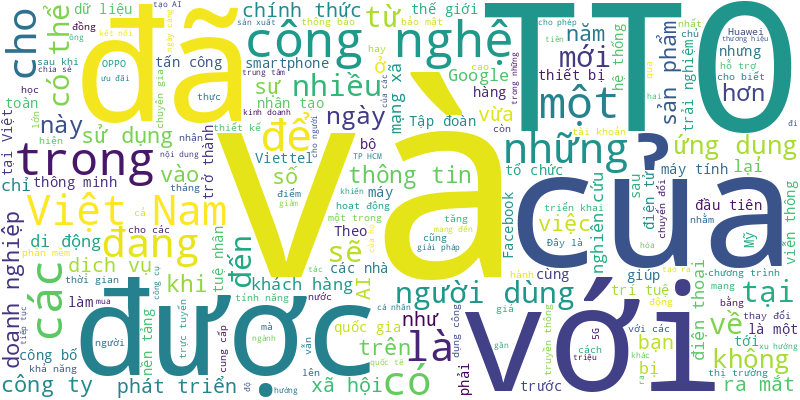
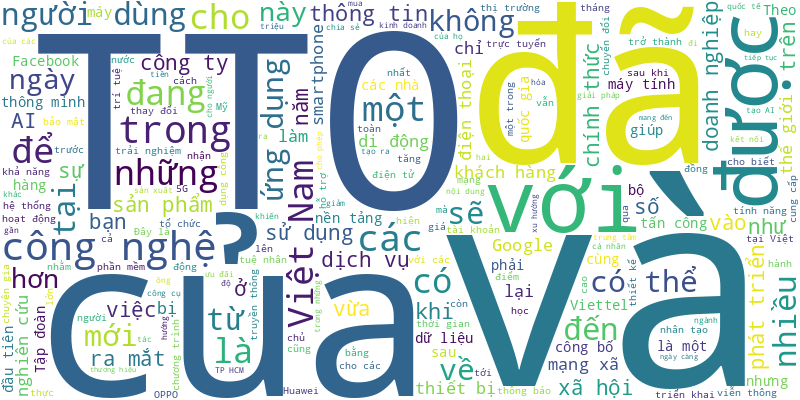
🍀 = 60%

diff --git a/README.md b/README.md
@@ -1,6 +1,16 @@
 # Tuoi Tre RSS 
 
 ## Giáo dục 
+- Ông Bạch Văn Mạnh - giám đốc Sở Nội vụ Đắk Lắk - cho biết tiếp tục đôn đốc các đơn vị, địa phương sớm thực hiện các thủ tục để chi tiền thưởng theo nghị định số 73 ngày 30-6 của Chính phủ.
+- Trước sự chuyển đổi số ngày càng mạnh mẽ, nhu cầu về phương pháp học tập được cá nhân hóa đã trở thành một xu hướng tất yếu.
+- Theo GS.TS Chử Đức Trình, lĩnh vực vi mạch bán dẫn đào tạo không hề dễ, nhân lực theo học cũng đòi hỏi rất nhiều yếu tố.
+- Một cô giáo ở Cà Mau đã sáng tạo, đổi mới dạy học môn ngữ văn bằng cách hát những bài hát cải lương trong các tiết dạy Truyện Kiều, Đất Nước, Lục Vân Tiên… tạo không khí phấn khởi, dễ tiếp thu cho học sinh.
+- Sinh viên Trường đại học Công Thương TP.HCM lo lắng khi trường cho gia hạn thời gian đóng học phí nhưng buộc phải đóng trước một ít.
+- Cuối năm 2024, Sở Giáo dục và Đào tạo TP.HCM đã ban hành kế hoạch tổ chức kiểm điểm, phê bình các tập thể, cá nhân trong việc mua sắm tài sản. Trong đó có hiệu trưởng Trường THPT chuyên Lê Hồng Phong, Gia Định… Họ đã sai phạm ra sao?
+- Bộ trưởng Nguyễn Kim Sơn cho hay công tác xã hội hóa sách giáo khoa đạt kết quả tốt, các môn học và hoạt động giáo dục đều có từ 3 đến 9 bộ sách giáo khoa.
+- UBND TP.HCM vừa có quyết định bãi bỏ quy định về tiêu chí công nhận "Trường tiên tiến, hội nhập quốc tế" (sau đây gọi tắt là trường tiên tiến - PV). Như vậy, những trường đang thực hiện mô hình này sẽ như thế nào?
+- Năm 2025, Trường đại học Công nghệ - Đại học Quốc gia Hà Nội dự kiến tăng hơn 1.000 chỉ tiêu, mở thêm 4 ngành/chương trình đào tạo và xét tuyển 2 tổ hợp mới có môn tin học.
+- Đây là những trường đại học đầu tiên nhận hồ sơ xét tuyển năm nay. Đi kèm xét tuyển là nhiều học bổng giá trị.
 - Giáo viên ở hàng trăm cơ sở giáo dục tại Hà Nội đang thắc thỏm chờ thưởng Tết Ất Tỵ 2025.
 - UBND TP Hà Nội vừa có quyết định tổ chức lại Trường THPT Chu Văn An (quận Tây Hồ) và THPT Sơn Tây (thị xã Sơn Tây) thành trường THPT chuyên.
 - Ngay từ 15-1, thí sinh các trường THPT đã có thể gửi hồ sơ đăng ký xét học bổng tại trường đại học song ngữ - quốc tế được quan tâm hiện nay.
@@ -991,25 +1001,56 @@
 - Sau khi ăn thức ăn mua ở căng tin trường, 23 em học sinh phải nhập viện, nghi bị ngộ độc thực phẩm.
 - Úc đã quyết định giảm thiểu số lượng du học sinh trong năm 2025 xuống đáng kể, khiến không ít sinh viên Việt Nam lo lắng.
 - Sinh viên khó khăn được mượn tiền đóng học phí, không tính lãi, trả gốc sau 2 năm tốt nghiệp.
-- Sau khi nhà trường mời đến làm việc, phụ huynh đánh học sinh lớp 8 ở Quảng Nam cho hay rất hối hận và nhận lỗi.
-- Sau khi Tuổi Trẻ Online đăng bài viết về Nguyễn Tuấn Kiệt (lớp 12A1 Trường THPT Phú Mỹ, tỉnh Bà Rịa - Vũng Tàu), nhiều tấm lòng vàng đã giúp nam sinh này được nhập học.
-- Dự thảo Luật Nhà giáo quy định lương giáo viên được xếp cao nhất trong hệ thống thang bậc lương, được hưởng các phụ cấp và giáo viên mầm non được nghỉ hưu sớm.
-- Ban quản lý ký túc xá Đại học Quốc gia TP.HCM nói phơi đồ ở ban công gây mất mỹ quan, nhưng theo sinh viên, ban công mới có đủ nắng, gió để đồ khô.
-- So với năm 2022, doanh thu năm 2023 của Đại học Bách khoa Hà Nội và Trường đại học FPT tăng khoảng 1.000 tỉ đồng.
-- Ngoài Michael Tirant, trong danh sách tác giả siêu năng suất ghi địa chỉ các trường đại học Việt Nam còn có bốn cái tên người nước ngoài khác. Họ là ai?
-- Để khắc phục hậu quả của bão số 3, Quảng Ninh miễn 100% học phí cho học sinh từ mầm non đến lớp 12 năm học này.
-- Bài học rút ra là phải làm gì đó để ngăn những vụ việc gây bức xúc như ở Nhà xuất bản Giáo Dục Việt Nam.
-- Một phụ huynh ở Quảng Nam đã vào tận lớp đánh học sinh lớp 8 trước sự bất ngờ của giáo viên và cả lớp.
-- Những 'chiến binh' Robot AI của Đại học (ĐH) Duy Tân đã giành giải thưởng cao nhất tại chung kết cuộc thi 'ROBOG 2024'' toàn quốc diễn ra vào ngày 22-9 ở TP.HCM.
 ![Edu](Edu.png)
 ## Thời Sự 
+- Ông Bạch Văn Mạnh - giám đốc Sở Nội vụ Đắk Lắk - cho biết tiếp tục đôn đốc các đơn vị, địa phương sớm thực hiện các thủ tục để chi tiền thưởng theo nghị định số 73 ngày 30-6 của Chính phủ.
+- Thủ tướng Phạm Minh Chính đã nêu vấn đề khi gặp Tổng thống và Thủ tướng Ba Lan ngày 16-1. Ông cũng giải đáp 10 kiến nghị của đại diện cộng đồng người Việt khi gặp họ cùng ngày.
+- Trước tình hình kẹt xe diễn ra phức tạp ở TP.HCM những ngày qua, dư luận đã đặt ra câu hỏi liệu có thể mở rộng tạm vỉa hè để xe máy rẽ phải hay không?
+- Một số tin tức đáng chú ý: Dự kiến mức trợ cấp hưu trí xã hội hằng tháng từ 1-7 là 500.000 đồng; Kết quả thi hành án dân sự năm 2024 cao nhất từ trước đến nay; 28 bệnh viện công lập, 2 bệnh viện tư nhân tại TP.HCM được xếp cấp chuyên sâu...
+- Hôm nay 17-1, thời tiết Bắc Bộ tiếp tục giảm nhiệt, có nơi xuống dưới 5 độ C, Nam Bộ ngày nắng, chỉ số tia cực tím cao.
+- "Ba Lan sẽ không phải là nước cuối cùng phê chuẩn EVIPA", Thủ tướng Ba Lan Donald Tusk nhấn mạnh khi cùng Thủ tướng Phạm Minh Chính gặp gỡ báo chí sau hội đàm ngày 16-1 ở Warsaw.
+- UBND quận Tây Hồ ban hành thông báo phân luồng giao thông phục vụ chương trình "Hòa nhạc ánh sáng - Chào năm mới 2025" trong ngày 17 và 18-1.
+- Bộ trưởng Bộ Giao thông vận tải Trần Hồng Minh thị sát cao tốc Quảng Ngãi - Hoài Nhơn, yêu cầu chủ đầu tư, nhà thầu quyết tâm cao, hoàn thành vượt tiến độ Thủ tướng giao.
+- Thủ tướng Ba Lan Donald Tusk ra tận nơi xe dừng để đón Thủ tướng Phạm Minh Chính. Hai nhà lãnh đạo dành cho nhau những cử chỉ thân thiết.
+- Dù là nhà ga trên cao lớn nhất tuyến metro số 1, những ngày gần đây nhà ga Tân Cảng xuất hiện hàng chục bao rác cùng nhiều rác thải sinh hoạt đầy nhếch nhác.
+- Số lượng đơn thư phản ánh, kiến nghị chiếm số lượng lớn, TP.HCM kiến nghị bổ sung quy định tiếp nhận, xử lý, giải quyết.
+- Phong trào thi đua nhằm thực hiện thắng lợi các mục tiêu, nhiệm vụ phát triển kinh tế - xã hội năm 2025, kế hoạch 5 năm (2021-2025). Đồng thời lập thành tích chào mừng Đại hội đảng bộ các cấp.
+- Đó là khẳng định của đại diện Công an TP.HCM tại cuộc họp báo kinh tế và xã hội chiều 16-1, liên quan đến việc vượt đèn đỏ để nhường đường xe cứu thương.
+- Giám đốc Trung tâm Quản lý phố đi bộ và công viên trên địa bàn quận 1 đã thông tin sơ bộ các phương án tổ chức không gian khu vực trung tâm TP, cầu đi bộ kết nối hai bờ sông Sài Gòn.
+- Về quy mô, dự án cảng trung chuyển quốc tế Cần Giờ có diện tích sử dụng đất khoảng 571ha.
+- Ngày 16-1, ông Phan Đình Trạc - bí thư Trung ương Đảng, trưởng Ban Nội chính Trung ương - đã đến thăm, tặng quà Tết các gia đình chính sách, hộ nghèo ở huyện Tương Dương, Nghệ An.
+- Chiều 16-1, TP.HCM tổ chức họp báo về kinh tế - xã hội trên địa bàn TP.HCM. Trong đó nội dung liên quan đến kẹt xe, nghị định 168 được báo chí quan tâm và được phản hồi cụ thể.
+- Ba người đàn ông người Lào đi trên chiếc ô tô chở theo 121 bao ni lông chứa ma túy qua cửa khẩu quốc tế Cầu Treo, thì bị lực lượng chức năng Việt Nam phát hiện bắt giữ.
+- Trong gần 3 tiếng, Phu nhân Ngô Phương Ly và các nữ đại sứ không chỉ cùng cảm nhận phong vị Tết cổ truyền Việt Nam mà còn chuyện trò bên nồi bánh chưng nghi ngút khói, một phần không thể thiếu của ngày Tết.
+- Lê Duy Sáng đưa ra thông tin gian dối để người dân đầu tư vào khu đô thị, sau đó sử dụng số tiền huy động được để kinh doanh, chi tiêu cá nhân nên không có khả năng trả lại, đã bị cơ quan chức năng khởi tố để điều tra.
+- Nhờ chủ cửa hàng kinh doanh sim, card điện thoại chuyển tiền đến tài khoản ngân hàng của mình rồi sẽ trả lại tiền mặt và phí, sau đó người đàn ông lừa đảo bằng cách để lại ít tiền rồi bất ngờ bỏ chạy.
+- Qua thống kê, hầu hết các vụ việc tông dàn chắn đường sắt đều xảy ra về đêm, đồng thời phần lớn người chạy xe máy trong tình trạng say xỉn.
+- 18 tập thể, trong đó có 10 quận, huyện và TP Thủ Đức được đề xuất UBND TP.HCM tặng bằng khen do đạt thành tích cao trong giải ngân vốn đầu tư công, bồi thường, hỗ trợ, tái định cư.
+- Bể tiêu bùn của nhà máy xử lý nước thải lớn nhất Đông Nam Á ở TP Thủ Đức (TP.HCM) hoàn thành, qua đó đẩy nhanh tiến độ các hạng mục tiếp theo.
+- Tài khoản ngân hàng của anh Hiền bất ngờ nhận số tiền 300 triệu đồng do người khác chuyển khoản nhầm nên anh trình báo và công an phường đã khẩn trương vào cuộc tìm ra "khổ chủ" để trả lại.
+- Theo kế hoạch, 10 ngày nữa (27-12-2024 âm lịch), metro số 1 sẽ có những thay đổi về lịch chạy. Cũng trong dịp này, một số tuyến buýt sẽ có sự điều chỉnh thời gian.
+- Hội Nhà báo Việt Nam đã trao tặng 1.070 phần quà Tết đến người dân vùng biển, vùng núi để bà con có cái Tết đầm ấm, sum vầy hơn. Một điểm trường tiểu học cùng nhiều dụng cụ học tập cũng được trao tặng dịp này.
+- Người dân tại TP Đồng Hới (Quảng Bình) rất băn khoăn vì đèn giao thông ở ngã ba Bắc Lý khi đường thẳng, bên phải không có đường cắt nhưng vẫn không được đi thẳng khi đèn đỏ.
+- Đoạn cao tốc Bến Lức - Long Thành đưa vào khai thác sẽ mở ra một lối đi mới kết nối cao tốc TP.HCM - Trung Lương.
+- Chương trình "Gặp gỡ Đà Nẵng 2025" sẽ có sự tham dự của hơn 500 khách, trong đó nhiều khách mời nước ngoài đến từ các thành phố có hợp tác với Đà Nẵng.
+- Phó thủ tướng Chính phủ Hồ Đức Phớc đã thăm hỏi, trao quà Tết cho người nghèo và công nhân ở hai tỉnh Bình Định, Phú Yên.
+- Sáng 16-1, Phó bí thư Thành ủy, Chủ tịch Ủy ban MTTQ Việt Nam TP.HCM Nguyễn Phước Lộc dự lễ trao huy hiệu 65 năm tuổi Đảng cho ông Ngô Mai tại quận Phú Nhuận.
+- Chủ tịch UBND TP.HCM Phan Văn Mãi cho rằng TP cần triển khai cho được đề án, chính sách bảo vệ cán bộ dám nghĩ, dám làm.
+- Sở Tài nguyên và Môi trường TP.HCM vừa có văn bản cung cấp thông tin liên quan đến việc tháo gỡ khó khăn trong công tác giải quyết thủ tục cấp giấy chứng nhận cho người mua nhà tại các dự án nhà ở tại TP.HCM.
+- Sáng 16-1, đường hoa xuân tại Bệnh viện Chợ Rẫy (TP.HCM) chính thức khai mạc.
+- Bộ trưởng Nguyễn Kim Sơn cho hay công tác xã hội hóa sách giáo khoa đạt kết quả tốt, các môn học và hoạt động giáo dục đều có từ 3 đến 9 bộ sách giáo khoa.
+- Công viên hồ Phùng Khoang đã được đưa vào hoạt động sau 'lệnh' của chủ tịch Hà Nội.
+- Bộ Y tế đề xuất phạt từ 1 - 2 triệu đồng đối với người chứa chấp, sử dụng thuốc lá điện tử, thuốc lá nung nóng. Đồng thời, phạt tiền gấp hai lần mức tiền phạt quy định trên đối với hành vi tái phạm.
+- Nghị định 168 quy định mức phạt tiền từ 65 - 75 triệu đồng với cá nhân, 130 - 150 triệu đồng với tổ chức là chủ xe ô tô khi vi phạm một số lỗi.
+- Theo dự thảo, mức phạt cao nhất với cá nhân là 50 triệu đồng và tổ chức 100 triệu đồng.
 - Một huyện ở Hà Tĩnh có 39 công chức, viên chức viết đơn xin nghỉ hưu trước tuổi nhằm tạo điều kiện thuận lợi trong việc tinh gọn bộ máy sau sắp xếp đơn vị hành chính.
 - Ngành giao thông vận tải tại TP.HCM và Nam Bộ đã lên các phương án chống ùn tắc và đẩy nhanh tiến độ hoàn thiện các công trình giao thông để bà con về quê dịp Tết năm nay thuận lợi.
 - Tết Nguyên đán 2025 đang cận kề, nhiều người dân tại TP.HCM bắt đầu lên kế hoạch về quê. Một trong những điểm nóng giao thông cần chú ý là nút giao An Phú, nơi thường xuyên ùn tắc vào các dịp cao điểm lễ Tết.
+- Nghiên cứu, đề xuất chính sách thuế nhằm hạn chế hoạt động đầu cơ bất động sản, bảo đảm phù hợp với điều kiện kinh tế - xã hội của Việt Nam và thông lệ quốc tế...
 - Sau loạt bài đăng tải trên báo Tuổi Trẻ về "Nhức nhối lựa chọn giới tính thai nhi", các cơ quan quản lý và chuyên gia y tế cho rằng đây là vấn đề xã hội hết sức cần lên án.
 - Khẩn trương sắp xếp và kiện toàn tổ chức bộ máy, đội ngũ cán bộ, công chức, viên chức, người lao động sau sắp xếp.
 - Từ ngày 1 đến ngày 14-1, trên địa bàn TP.HCM xảy ra 31 vụ tai nạn, làm chết 14 người, bị thương 16 người. So với thời gian liền kề (từ ngày 18-12 đến 31-12-2024) giảm 42 vụ, giảm 1 người chết, giảm 40 người bị thương.
-- Lu rùng thi công cao tốc Vạn Ninh - Cam Lộ khiến nhà ông Nguyễn Văn Xuân nứt toác, nhiều mảng xi măng nứt vỡ rơi xuống nền nhà. Chính quyền và đại diện chủ đầu tư đều khẳng định không đảm bảo an toàn, nguy hiểm tính mạng.
+- Lu rung thi công cao tốc Vạn Ninh - Cam Lộ khiến nhà ông Nguyễn Văn Xuân nứt toác, nhiều mảng xi măng nứt vỡ rơi xuống nền nhà. Chính quyền và đại diện chủ đầu tư đều khẳng định không đảm bảo an toàn, nguy hiểm tính mạng.
 - Cựu bộ trưởng, chủ nhiệm Văn phòng Chính phủ Mai Tiến Dũng bị tòa án đưa ra xét xử cáo buộc hai lần ký bút phê vào đơn kiến nghị để giúp đỡ ông Nguyễn Cao Trí và nhận cảm ơn 200 triệu từ đại gia Trí.
 - Giáo viên ở hàng trăm cơ sở giáo dục tại Hà Nội đang thắc thỏm chờ thưởng Tết Ất Tỵ 2025.
 - Tin tức đáng chú ý: Khu vực hồ Tây đứng đầu về ô nhiễm không khí ở Hà Nội; Đề nghị tăng mức phạt với vi phạm an toàn vệ sinh thực phẩm; Nhiều hoạt động hỗ trợ người bệnh dịp Tết...
@@ -1963,47 +2004,6 @@
 - Dự kiến có khoảng 4.922 văn bản chịu sự tác động của việc sắp xếp tổ chức bộ máy nên cần rà soát, nghiên cứu, sửa đổi phù hợp.
 - Công an tỉnh Thừa Thiên Huế đã từ chối trả kết quả giám định thật giả của tờ vé số trúng giải đặc biệt bị rách một phần gốc cho bà N.T.N., người mua vé số.
 - Trung tâm thương mại huyện 'quy hoạch treo' suốt 7 năm do sai sót chưa đo đạc thực tế trước khi đấu giá. Sau nhiều năm, giá trị đất từ 22 tỉ đồng vọt lên 140 tỉ.
-- Ban Thường vụ Thành ủy Hà Nội nghiêm cấm việc cấp dưới biếu, tặng quà Tết cho lãnh đạo các cấp dưới mọi hình thức trong dịp Tết Nguyên đán Ất Tỵ 2025.
-- Năm 2024, Nghệ An thu hút vốn đầu tư nước ngoài FDI dự kiến đạt gần 1,7 tỉ USD, cao nhất từ trước đến nay.
-- Từ những kết quả tốt đã đạt được trong năm 2024, Sở Giao thông vận tải TP.HCM đề ra những nhiệm vụ, phấn đấu hoàn thành trong năm 2025.
-- Hàng loạt người dân thi đỗ sát hạch nhưng không được cấp giấy phép lái xe do thiếu phôi, Sở Giao thông vận tải tỉnh Bình Dương hứa sẽ 'trả nợ' trước Tết Nguyên đán.
-- Một số quán ăn cấm cửa người bán vé số dạo. Có người đồng tình, nhưng cũng có người cho rằng cần thông cảm với người bán vé số dạo.
-- Ban cán sự Đảng UBND thành phố Hà Nội đề xuất tiếp tục duy trì 2 cơ quan báo chí trực thuộc UBND TP, gồm Đài phát thanh và truyền hình Hà Nội và báo Kinh Tế - Đô Thị để kịp thời tuyên truyền các chủ trương, định hướng chỉ đạo của thành phố.
-- Đúng với tên gọi 'Công ước Hà Nội', Công ước Liên hợp quốc về tội phạm mạng sẽ được mở ký tại thủ đô của Việt Nam, đánh dấu lần đầu tiên nước ta đăng cai lễ ký một công ước của tổ chức lớn nhất hành tinh.
-- Cháy lớn xảy ra tại một cơ sở mua, bán, trao đổi ô tô, phụ kiện, nội thất tại phường Cao Xanh (TP Hạ Long).
-- Bộ Giao thông vận tải đề xuất Thủ tướng giao bộ này làm cơ quan có thẩm quyền triển khai dự án mở rộng cao tốc TP.HCM - Trung Lương - Mỹ Thuận theo phương thức PPP để đảm bảo tiến độ.
-- Khu đất vàng "Cao Xà Lá" nằm trên đường Nguyễn Trãi (Hà Nội), vừa được chủ tịch Hà Nội yêu cầu Sở Tài Nguyên và Môi trường báo cáo để TP tiếp tục báo cáo Thủ tướng với các nội dung vượt thẩm quyền  hiện nay đang như thế nào?
-- Nhiều bạn đọc quan tâm tiêu chí đặt tên các phường mới tại TP.HCM sau khi sáp nhập từ 80 phường thành 41 phường, thực hiện từ ngày 1-1-2025.
-- Thanh tra đã chỉ ra tồn tại, thiếu sót trong việc vận hành, nghiệm thu, thanh toán khối lượng nước rỉ rác.
-- Ban cán sự Đảng UBND TP Hà Nội vừa có báo cáo gửi Ban Chỉ đạo TP về tổng kết thực hiện nghị quyết số 18. Theo đó, Hà Nội đề xuất giữ nguyên Sở Giao thông vận tải sau khi sắp xếp, tinh gọn.
-- Đi vào đường cấm, không chấp hành hiệu lệnh của tổ công tác cảnh sát giao thông, lái xe bỏ chạy đoạn dài, lạng lách đánh võng trên đường nguy hiểm, tài xế xe tải bị tạm giữ hình sự.
-- Ngọn lửa bùng phát mạnh tại quán bar trên đường Lý Tự Trọng, phường Bến Thành, quận 1, TP.HCM.
-- Chủ tịch UBND tỉnh Gia Lai Rah Lan Chung vừa ký công văn về sắp xếp các cơ quan chuyên môn thuộc UBND cấp huyện, UBND tỉnh.
-- Chủ tịch UBND TP Phan Văn Mãi yêu cầu xây dựng và phát triển con người thành phố toàn diện nhưng có bản sắc riêng, năng động, sáng tạo.
-- Phó bí thư Thành ủy TP.HCM đề nghị tăng cường tuyên truyền để người dân phòng ngừa hoạt động phạm pháp trên môi trường số.
-- Sáng 25-12, Sở Giao thông vận tải tỉnh Ninh Thuận cho biết vừa có văn bản báo cáo kết quả kiểm tra xử lý thông tin phản ánh việc nông dân "bí đường" phải trèo rào, đi vòng chục cây số ra ruộng vì cao tốc không có đường gom.
-- Trong 7 năm qua, tỉnh Quảng Nam đã tinh giản 6.393 biên chế, đạt mục tiêu nghị quyết 18 của Ban Chấp hành Trung ương Đảng khóa XII đề ra.
-- Tỉnh này đang thuộc nhóm dẫn đầu với các chỉ số thành phần dịch vụ công trực tuyến, thanh toán trực tuyến.
-- Một vụ tai nạn giữa xe tải và xe chở công nhân đi làm vào buổi sáng xảy ra trên địa bàn tỉnh Bà Rịa - Vũng Tàu. Hậu quả làm 2 người đi trên xe 16 chỗ tử vong.
-- Bộ Nội vụ đề xuất xây dựng cơ chế sát hạch để thường xuyên sàng lọc đội ngũ cán bộ, công chức trên nguyên tắc có vào - ra, có lên - xuống.
-- Cơ chế phát triển điện gió ngoài khơi được kỳ vọng sẽ tạo cơ chế khuyến khích doanh nghiệp, tuy nhiên, vẫn còn nhiều quy định chưa phù hợp.
-- Trong nửa năm, số tiền giao dịch đường dây đánh bạc bằng hình thức lô đề qua mạng do một phụ nữ ở tỉnh Quảng Nam cầm đầu lên đến hơn 50 tỉ đồng.
-- Sáng 25-12, Bệnh viện Nguyễn Trãi (TP.HCM) tổ chức lễ công bố quyết định thành lập khoa bảo vệ sức khỏe cán bộ thành phố.
-- Sông Nhuệ thơ mộng từng là nguồn nước nuôi sống nhiều cánh đồng đến nay bị bồi lắng đến khó tin, có đoạn cạn trơ kéo dài cả km, trong khi dòng nước ít ỏi còn lại thì đen kịt, bốc mùi hôi thối.
-- Ngày 24-12, người dân đi tuyến metro số 1 (Bến Thành - Suối Tiên) tăng vọt, lên hơn 90.000 người.
-- Đại hội đồng Liên Hiệp Quốc thông qua Công ước Liên Hiệp Quốc về Tội phạm mạng, văn kiện này sẽ được mở ký tại thủ đô Hà Nội trong năm 2025.
-- Từ hôm nay (25-12), nghị định 147 của Chính phủ về quản lý, cung cấp, sử dụng dịch vụ Internet và thông tin trên mạng chính thức có hiệu lực. Với một số quy định mới, game lậu, game cờ bạc, game độc hại... kỳ vọng sẽ được ngăn chặn.
-- Cử tri phản ánh thời gian gần đây dư luận đang quan tâm về Công ty GFDI huy động vốn lên đến gần 4.000 tỉ của người dân.
-- Dự báo hôm nay (25-12), bão số 10 (Pabuk) hướng về vùng biển các tỉnh Ninh Thuận - Bà Rịa Vũng Tàu và suy yếu thành áp thấp nhiệt đới.
-- Một số tin tức đáng chú ý: Tài sản cựu chủ tịch Đất Xanh 'bốc hơi' hơn 100 tỉ; Lần đầu đua thuyền buồm tại Cần Thơ; TP.HCM dự kiến đầu tư 54.700 tỉ đồng cho dự án y tế lớn...
-- Hoạt động thời gian ngắn trên Biển Đông thì bão số 10 nhanh chóng suy yếu nhưng vẫn gây mưa lớn cho miền Trung.
-- Lãnh đạo tỉnh Quảng Nam đề nghị giải quyết dứt điểm vụ bệnh nhân có 4 bệnh được yêu cầu xác nhận 1 bệnh cho 'đúng nghị quyết'.
-- Sơ bộ tổng mức đầu tư xây dựng sân bay Tây Ninh giai đoạn đầu để đưa vào khai thác là khoảng 4.738 tỉ đồng, đáp ứng phục vụ 1 triệu hành khách/năm.
-- Một đường dây lừa đảo, làm giả hàng ngàn tài khoản ngân hàng vừa bị Công an Quảng Bình phối hợp với Công an TP Hà Nội và Công an tỉnh Đồng Tháp phá thành công.
-- Ban tổ chức chương trình Hỗ trợ nông dân tái thiết cuộc sống sau bão lũ ở Hải Dương mong muốn từ 20 triệu đồng hỗ trợ, bà con có lãi hơn 100 triệu đồng.
-- Ủy ban Thường vụ Quốc hội thông qua nghị quyết về mức thuế bảo vệ môi trường đối với xăng dầu, áp dụng đến hết năm 2025.
-- Chiều 24-12, Chủ tịch UBND TP Hà Nội Trần Sỹ Thanh đã chủ trì phiên họp thứ 2 của Ban Chỉ đạo về thực hiện các biện pháp phòng, chống lãng phí của TP.
-- Thấy cảnh sát giao thông ra hiệu lệnh dừng xe, nam thanh niên mang ma túy tăng tốc bỏ chạy, tông vào xe tuần tra…
 ![New](News.png)
 ## Nhịp sống số 
 - Theo đề xuất của chính phủ nhằm đối phó nạn tin tặc hoành hành tại Anh, các trường học, cơ quan y tế quốc gia (NHS) và hội đồng địa phương sẽ bị cấm trả tiền chuộc khi bị tấn công mạng.
